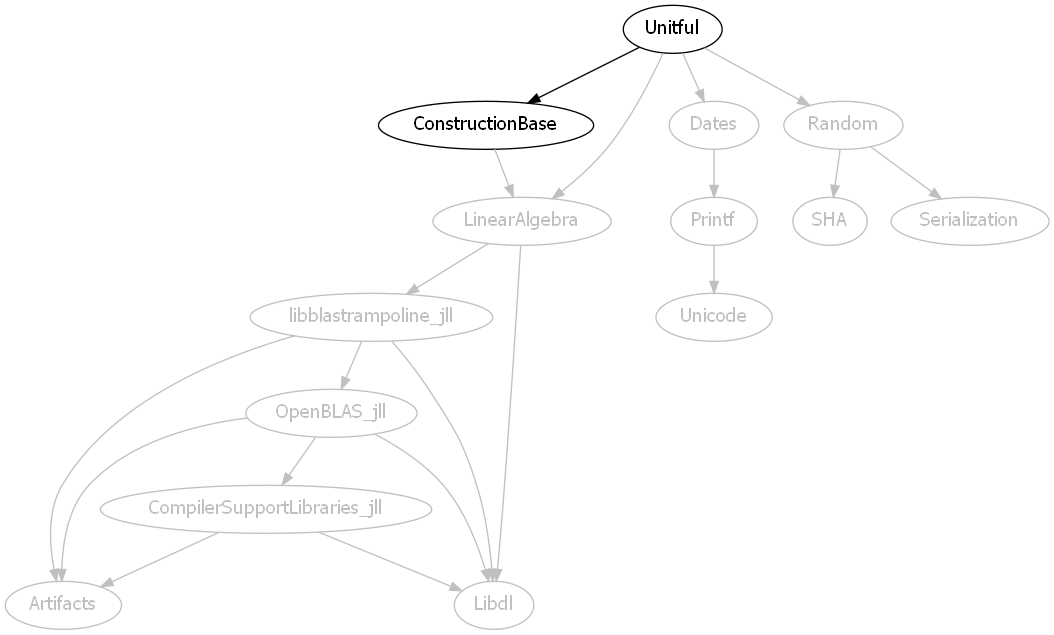
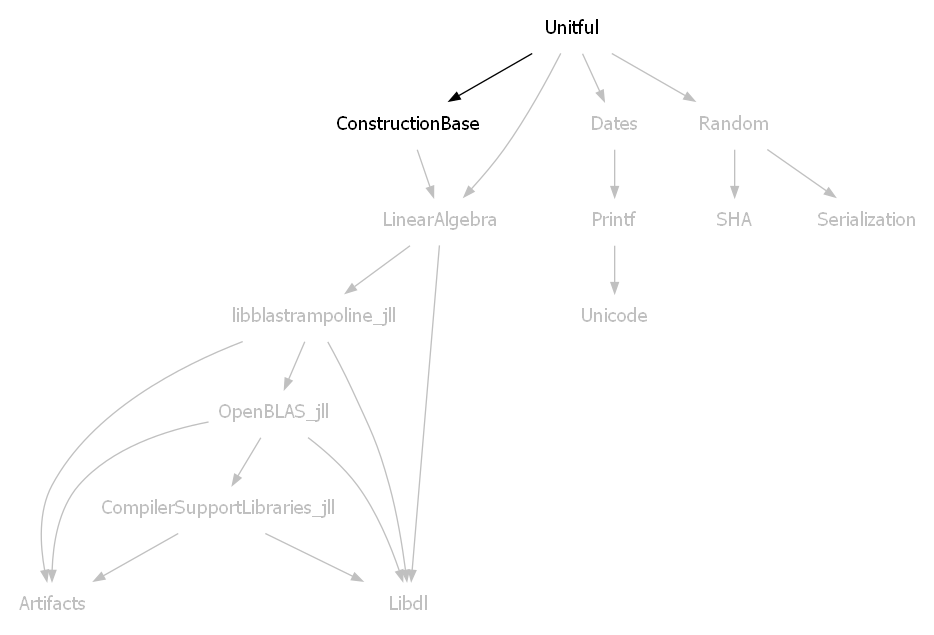
update tests, docstrings, docs/img for new graph style

diff --git a/ReadMe.md b/ReadMe.md
@@ -43,7 +43,7 @@ by setting `jll = false`.
 [JLL packages]: https://docs.binarybuilder.org/stable/jll
 
 [unitful]: https://github.com/PainterQubits/Unitful.jl
-[dotlink]: https://dreampuf.github.io/GraphvizOnline/#digraph%20%7B%0A%20%20%20%20bgcolor%20%3D%20%22transparent%22%0A%20%20%20%20node%20%5Bfillcolor%3D%22white%22%2C%20fontcolor%3D%22black%22%2C%20color%3D%22black%22%5D%0A%20%20%20%20edge%20%5Bcolor%3D%22black%22%5D%0A%20%20%20%20node%20%5Bfontname%3D%22sans-serif%22%2C%20style%3D%22filled%22%5D%0A%20%20%20%20edge%20%5Barrowsize%3D0.88%5D%0A%20%20%20%20Unitful%20-%3E%20ConstructionBase%0A%20%20%20%20ConstructionBase%20-%3E%20LinearAlgebra%20%5Bcolor%3Dgray%5D%0A%20%20%20%20LinearAlgebra%20-%3E%20Libdl%20%5Bcolor%3Dgray%5D%0A%20%20%20%20LinearAlgebra%20-%3E%20libblastrampoline_jll%20%5Bcolor%3Dgray%5D%0A%20%20%20%20libblastrampoline_jll%20-%3E%20Artifacts%20%5Bcolor%3Dgray%5D%0A%20%20%20%20libblastrampoline_jll%20-%3E%20Libdl%20%5Bcolor%3Dgray%5D%0A%20%20%20%20libblastrampoline_jll%20-%3E%20OpenBLAS_jll%20%5Bcolor%3Dgray%5D%0A%20%20%20%20OpenBLAS_jll%20-%3E%20Artifacts%20%5Bcolor%3Dgray%5D%0A%20%20%20%20OpenBLAS_jll%20-%3E%20CompilerSupportLibraries_jll%20%5Bcolor%3Dgray%5D%0A%20%20%20%20CompilerSupportLibraries_jll%20-%3E%20Artifacts%20%5Bcolor%3Dgray%5D%0A%20%20%20%20CompilerSupportLibraries_jll%20-%3E%20Libdl%20%5Bcolor%3Dgray%5D%0A%20%20%20%20OpenBLAS_jll%20-%3E%20Libdl%20%5Bcolor%3Dgray%5D%0A%20%20%20%20Unitful%20-%3E%20Dates%20%5Bcolor%3Dgray%5D%0A%20%20%20%20Dates%20-%3E%20Printf%20%5Bcolor%3Dgray%5D%0A%20%20%20%20Printf%20-%3E%20Unicode%20%5Bcolor%3Dgray%5D%0A%20%20%20%20Unitful%20-%3E%20LinearAlgebra%20%5Bcolor%3Dgray%5D%0A%20%20%20%20Unitful%20-%3E%20Random%20%5Bcolor%3Dgray%5D%0A%20%20%20%20Random%20-%3E%20SHA%20%5Bcolor%3Dgray%5D%0A%20%20%20%20Random%20-%3E%20Serialization%20%5Bcolor%3Dgray%5D%0A%20%20%20%20LinearAlgebra%20%5Bcolor%3Dgray%20fontcolor%3Dgray%5D%0A%20%20%20%20libblastrampoline_jll%20%5Bcolor%3Dgray%20fontcolor%3Dgray%5D%0A%20%20%20%20OpenBLAS_jll%20%5Bcolor%3Dgray%20fontcolor%3Dgray%5D%0A%20%20%20%20CompilerSupportLibraries_jll%20%5Bcolor%3Dgray%20fontcolor%3Dgray%5D%0A%20%20%20%20Dates%20%5Bcolor%3Dgray%20fontcolor%3Dgray%5D%0A%20%20%20%20Printf%20%5Bcolor%3Dgray%20fontcolor%3Dgray%5D%0A%20%20%20%20Random%20%5Bcolor%3Dgray%20fontcolor%3Dgray%5D%0A%20%20%20%20Libdl%20%5Bcolor%3Dgray%20fontcolor%3Dgray%5D%0A%20%20%20%20Artifacts%20%5Bcolor%3Dgray%20fontcolor%3Dgray%5D%0A%20%20%20%20Unicode%20%5Bcolor%3Dgray%20fontcolor%3Dgray%5D%0A%20%20%20%20SHA%20%5Bcolor%3Dgray%20fontcolor%3Dgray%5D%0A%20%20%20%20Serialization%20%5Bcolor%3Dgray%20fontcolor%3Dgray%5D%0A%7D%0A
+[dotlink]: https://dreampuf.github.io/GraphvizOnline/#digraph%20%7B%0A%20%20%20%20bgcolor%20%3D%20%22transparent%22%0A%20%20%20%20node%20%5Bfontcolor%3D%22black%22%5D%0A%20%20%20%20edge%20%5Bcolor%3D%22black%22%5D%0A%20%20%20%20node%20%5Bfontname%3D%22sans-serif%22%2C%20fontsize%3D14%5D%0A%20%20%20%20node%20%5Bcolor%3Dnone%2C%20shape%3Dbox%2C%20width%3D1%2C%20height%3D0.5%5D%0A%20%20%20%20edge%20%5Barrowsize%3D0.8%5D%0A%20%20%20%20Unitful%20-%3E%20ConstructionBase%0A%20%20%20%20ConstructionBase%20-%3E%20LinearAlgebra%20%5Bcolor%3Dgray%5D%0A%20%20%20%20LinearAlgebra%20-%3E%20Libdl%20%5Bcolor%3Dgray%5D%0A%20%20%20%20LinearAlgebra%20-%3E%20libblastrampoline_jll%20%5Bcolor%3Dgray%5D%0A%20%20%20%20libblastrampoline_jll%20-%3E%20Artifacts%20%5Bcolor%3Dgray%5D%0A%20%20%20%20libblastrampoline_jll%20-%3E%20Libdl%20%5Bcolor%3Dgray%5D%0A%20%20%20%20libblastrampoline_jll%20-%3E%20OpenBLAS_jll%20%5Bcolor%3Dgray%5D%0A%20%20%20%20OpenBLAS_jll%20-%3E%20Artifacts%20%5Bcolor%3Dgray%5D%0A%20%20%20%20OpenBLAS_jll%20-%3E%20CompilerSupportLibraries_jll%20%5Bcolor%3Dgray%5D%0A%20%20%20%20CompilerSupportLibraries_jll%20-%3E%20Artifacts%20%5Bcolor%3Dgray%5D%0A%20%20%20%20CompilerSupportLibraries_jll%20-%3E%20Libdl%20%5Bcolor%3Dgray%5D%0A%20%20%20%20OpenBLAS_jll%20-%3E%20Libdl%20%5Bcolor%3Dgray%5D%0A%20%20%20%20Unitful%20-%3E%20Dates%20%5Bcolor%3Dgray%5D%0A%20%20%20%20Dates%20-%3E%20Printf%20%5Bcolor%3Dgray%5D%0A%20%20%20%20Printf%20-%3E%20Unicode%20%5Bcolor%3Dgray%5D%0A%20%20%20%20Unitful%20-%3E%20LinearAlgebra%20%5Bcolor%3Dgray%5D%0A%20%20%20%20Unitful%20-%3E%20Random%20%5Bcolor%3Dgray%5D%0A%20%20%20%20Random%20-%3E%20SHA%20%5Bcolor%3Dgray%5D%0A%20%20%20%20Random%20-%3E%20Serialization%20%5Bcolor%3Dgray%5D%0A%20%20%20%20LinearAlgebra%20%5Bfontcolor%3Dgray%5D%0A%20%20%20%20libblastrampoline_jll%20%5Bfontcolor%3Dgray%5D%0A%20%20%20%20OpenBLAS_jll%20%5Bfontcolor%3Dgray%5D%0A%20%20%20%20CompilerSupportLibraries_jll%20%5Bfontcolor%3Dgray%5D%0A%20%20%20%20Dates%20%5Bfontcolor%3Dgray%5D%0A%20%20%20%20Printf%20%5Bfontcolor%3Dgray%5D%0A%20%20%20%20Random%20%5Bfontcolor%3Dgray%5D%0A%20%20%20%20Libdl%20%5Bfontcolor%3Dgray%5D%0A%20%20%20%20Artifacts%20%5Bfontcolor%3Dgray%5D%0A%20%20%20%20Unicode%20%5Bfontcolor%3Dgray%5D%0A%20%20%20%20SHA%20%5Bfontcolor%3Dgray%5D%0A%20%20%20%20Serialization%20%5Bfontcolor%3Dgray%5D%0A%7D%0A
 
 
 ### Local rendering

diff --git a/src/modules/to_dot_string.md b/src/modules/to_dot_string.md
@@ -67,7 +67,7 @@ julia> using PkgGraph
 julia> PkgGraph.to_dot_str(edges; style, bg=:blue, indent=2) |> println
 digraph {
   bgcolor = "blue"
-  node [fillcolor="white", fontcolor="black", color="black"]
+  node [fontcolor="black"]
   edge [color="black"]
   node [color="red"]
   A -> B
@@ -79,8 +79,8 @@ julia> emptymsg="(empty graph)";
 julia> PkgGraph.to_dot_str([]; emptymsg, dark=true, style=[]) |> println
 digraph {
     bgcolor = "transparent"
-    node [fillcolor="black", fontcolor="white", color="white"]
+    node [fontcolor="white"]
     edge [color="white"]
-    onlynode [label=" (empty graph) ", shape="plaintext"]
+    onlynode [label=" (empty graph) ", shape=plaintext]
 }
 ```
